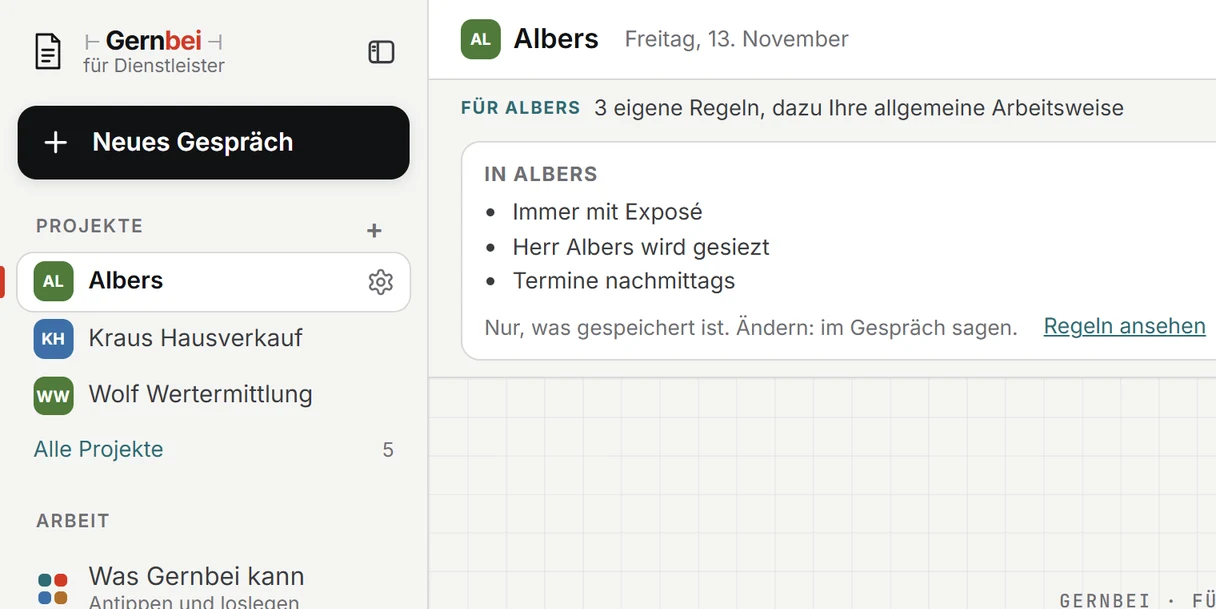
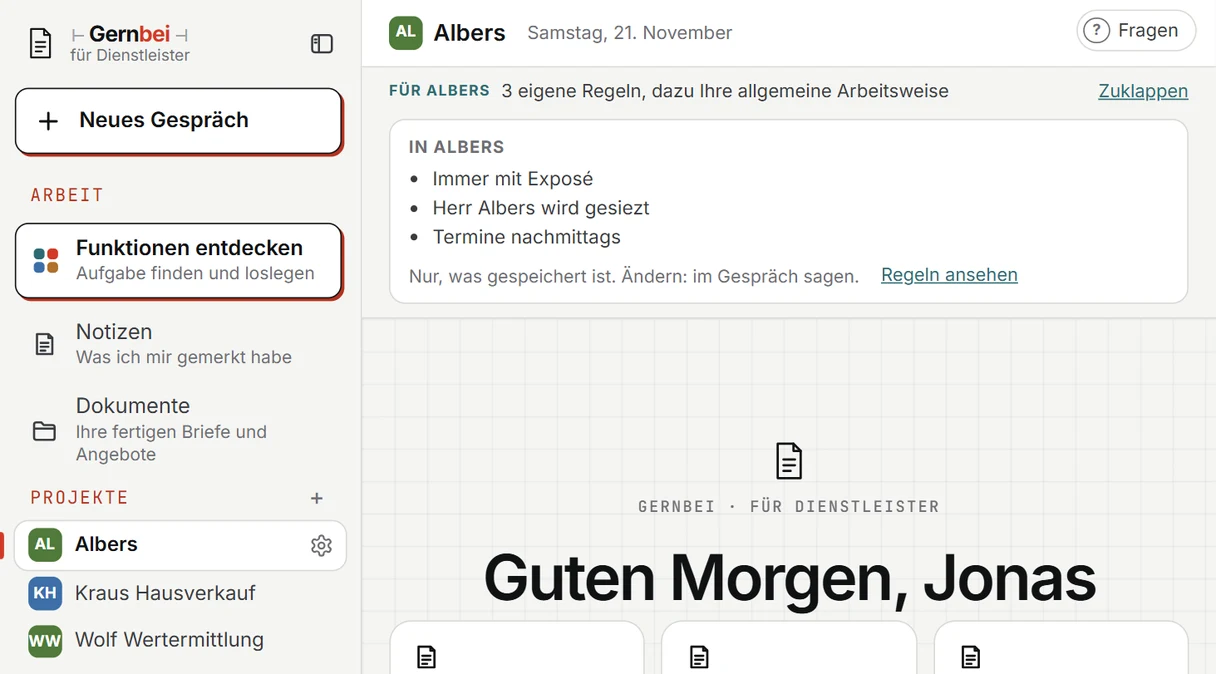
Bilder Stand 131: Bad Huber, Albers und Hilfe Firmengedaechtnis mit der neuen Leiste (Kurt 21.11.2026: Ja, alles)

diff --git a/handwerk.html b/handwerk.html
@@ -97,7 +97,7 @@
   <div class="karten-4">
     <div class="nb mit-bild"><img src="bilder/karte-foto-bericht.webp" alt="Kasten Ergebnis in Gernbei: Regiebericht unter Dokumente, Stunden und Material übernommen, Bitte die Zahlen vom Zettel zu prüfen" width="716" height="412" ><b>Foto</b><h3>Foto rein, Bericht raus</h3><p>Regiezettel, Kundenmail oder altes Angebot fotografieren. Zahlen vom Foto zeigt Gernbei Ihnen vorher zur Kontrolle.</p></div>
     <div class="nb mit-bild"><img src="bilder/karte-sprechen.webp" alt="Schreibzeile in Gernbei mit Büroklammer und Mikrofon" width="748" height="174" ><b>Handy</b><h3>Sprechen statt tippen</h3><p>Das Mikrofon Ihres Handys schreibt in die Zeile, auch im Transporter.</p></div>
-    <div class="nb mit-bild"><img src="bilder/karte-baustellen.webp" alt="Gernbei mit der Leiste Projekte: Bad Huber ist offen, oben die Zeile Für Bad Huber, aufgeklappt Was hier gilt mit den Regeln Fliesen bringt der Kunde, Material ohne Aufschlag, Termine ab 8 Uhr" width="748" height="374" ><b>Baustellen</b><h3>Jede Baustelle für sich</h3><p>Tippen Sie links auf die Baustelle, und Gernbei kennt ihren Stand und ihre Absprachen. Was bei Huber gilt, bleibt bei Huber.</p></div>
+    <div class="nb mit-bild"><img src="bilder/karte-baustellen.webp" alt="Gernbei mit der Leiste Projekte: Bad Huber ist offen, oben die Zeile Für Bad Huber, aufgeklappt Was hier gilt mit den Regeln Fliesen bringt der Kunde, Material ohne Aufschlag, Termine ab 8 Uhr" width="748" height="415" ><b>Baustellen</b><h3>Jede Baustelle für sich</h3><p>Tippen Sie links auf die Baustelle, und Gernbei kennt ihren Stand und ihre Absprachen. Was bei Huber gilt, bleibt bei Huber.</p></div>
     <div class="nb mit-bild"><img src="bilder/karte-heute.webp" alt="Kachel in Gernbei: Was liegt heute an?" width="716" height="202" ><b>Morgens</b><h3>Der Bericht am Morgen</h3><p>Nachts wird gesichert und geprüft. Mit Ihrem ersten Satz am Morgen kommen die Fristen der nächsten sieben Tage und was liegen geblieben ist. Den ganzen Tag holt <em>Was steht heute an?</em></p></div>
   </div>
   <details class="mehr alles" open>

diff --git a/dienstleister.html b/dienstleister.html
@@ -114,7 +114,7 @@
   </div>
   <div class="karten-4">
     <div class="nb mit-bild"><img src="bilder/dienst-karte-angebot.webp" alt="Antwort in Gernbei: Angebot 2026-001 als Entwurf, Preise und Anschrift fehlen noch" width="1216" height="224"><b>Angebot</b><h3>Angebot wie das letzte</h3><p>Geben Sie ein altes Angebot als Vorlage, dann übernimmt Gernbei Ihren Aufbau. Was fehlt, sagt Gernbei, statt es zu erfinden.</p></div>
-    <div class="nb mit-bild"><img src="bilder/dienst-karte-projekte.webp" alt="Gernbei mit der Leiste Projekte: Albers ist offen, oben die Zeile Für Albers, aufgeklappt Was hier gilt mit den Regeln Immer mit Exposé, Herr Albers wird gesiezt, Termine nachmittags" width="1216" height="609"><b>Projekte</b><h3>Jede Sache an ihrem Platz</h3><p>Ein Klick auf den Kunden links, und Gernbei arbeitet mit seinem Stand und seinen Regeln, etwa <i>bei Albers immer mit Exposé</i>. Eine Frage nennt, was offen ist.</p></div>
+    <div class="nb mit-bild"><img src="bilder/dienst-karte-projekte.webp" alt="Gernbei mit der Leiste Projekte: Albers ist offen, oben die Zeile Für Albers, aufgeklappt Was hier gilt mit den Regeln Immer mit Exposé, Herr Albers wird gesiezt, Termine nachmittags" width="1216" height="674"><b>Projekte</b><h3>Jede Sache an ihrem Platz</h3><p>Ein Klick auf den Kunden links, und Gernbei arbeitet mit seinem Stand und seinen Regeln, etwa <i>bei Albers immer mit Exposé</i>. Eine Frage nennt, was offen ist.</p></div>
     <div class="nb mit-bild"><img src="bilder/dienst-karte-zusagen.webp" alt="Antwort in Gernbei: zwei Zusagen der Woche mit Datum" width="1216" height="250"><b>Zusagen</b><h3>Was Sie wem versprochen haben</h3><p>Jede Zusage steht mit Datum beim Kunden und morgens im Bericht.</p></div>
     <div class="nb mit-bild"><img src="bilder/dienst-karte-protokoll.webp" alt="Antwort in Gernbei: Protokoll mit Entschiedenem und Offenem" width="1216" height="272"><b>Protokoll</b><h3>Protokoll aus Stichworten</h3><p>Entschiedenes und Offenes getrennt, abgelegt beim Kunden, auf Wunsch als Word-Datei.</p></div>
   </div>
